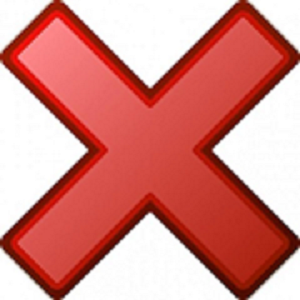
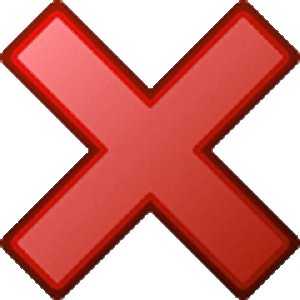
Залил картинки, добавилпару мелочей

diff --git a/answerwindow.cpp b/answerwindow.cpp
@@ -18,25 +18,22 @@ AnswerWindow::~AnswerWindow()
 
 }
 
-void AnswerWindow::preShow(int rightIndex, int checkId)
+void AnswerWindow::preShow(int rightIndex, int checkId, City* city)
 {
     if(rightIndex == checkId){
-        QImage image(":/galochka.png");
-        QGraphicsScene* scene = new QGraphicsScene();
-        QGraphicsPixmapItem* item = new QGraphicsPixmapItem(QPixmap::fromImage(image));
-        scene->addItem(item);
-        ui->graphicsView->setScene(scene);
-        //ui->imageLabel->setPixmap(":/galochka.png");
+        QPixmap pix;
+        pix.load(":/galochka.png");
+        ui->image->resize(pix.size());
+        ui->image->setPixmap(pix);
         ui->label->setText("Ты ответил на вопрос правильно");
-
+        city->rightAnswers++;
     }
     else {
+        QPixmap pix;
+        pix.load(":/krest.PNG");
         QImage image(":/krest.PNG");
-        QGraphicsScene* scene = new QGraphicsScene();
-        QGraphicsPixmapItem* item = new QGraphicsPixmapItem(QPixmap::fromImage(image));
-        scene->addItem(item);
-        ui->graphicsView->setScene(scene);
-        //ui->imageLabel->setPixmap(":/krest.jpg");
+        ui->image->resize(pix.size());
+        ui->image->setPixmap(pix);
         ui->label->setText("Ты ответил на вопрос неправильно");
     }
     show();

diff --git a/city.cpp b/city.cpp
@@ -64,7 +64,7 @@ void City::showAnswer()
     if(ui->var4->isChecked()){
         checkId = 3;
     }
-    aw->preShow(rIndex, checkId);
+    aw->preShow(rIndex, checkId, this);
     hide();
 }
 
@@ -79,7 +79,7 @@ void City::nextQuestion()
         questions[questionNumber].answered = 1;
     }
     else{
-        eq->show();
+        eq->preShow(this);
         hide();
     }
 }
@@ -125,7 +125,7 @@ void City::randQuestion()
         }
     } else{
         complete = true;
-        eq->show();
+        eq->preShow(this);
         hide();
     }
 }

diff --git a/city.h b/city.h
@@ -29,6 +29,8 @@ public:
     bool checkPoint(QPoint p);
     bool complete = false;
     EndQuestions* eq;
+    int rightAnswers = 0;
+    QVector<Question> questions;
 
 public slots:
     void showAnswer();
@@ -44,7 +46,6 @@ private:
     int questionNumber = 0;
     Ui::Dialog *ui;
     QRect rect;
-    QVector<Question> questions;
     AnswerWindow* aw;
 };
 

diff --git a/endquestions.cpp b/endquestions.cpp
@@ -14,3 +14,13 @@ EndQuestions::~EndQuestions()
 {
 
 }
+
+void EndQuestions::preShow(City* city)
+{
+    QString result = "Вы ответили правильно на ";
+    result += QString::number(city->rightAnswers);
+    result += " из ";
+    result += QString::number(city->questions.size());
+    ui->result->setText(result);
+    show();
+}

diff --git a/answerwindow.h b/answerwindow.h
@@ -20,7 +20,7 @@ class AnswerWindow : public QWidget
 public:
     AnswerWindow(City *city, MainWindow* mw);
     ~AnswerWindow();
-    void preShow(int rightIndex, int checkId);
+    void preShow(int rightIndex, int checkId, City *city);
 };
 
 #endif // ANSWERWINDOW_H

diff --git a/mainwindow.cpp b/mainwindow.cpp
@@ -27,7 +27,7 @@ MainWindow::MainWindow(QWidget *parent) :
 
 
 
-    QFile file("questions.txt");
+    QFile file("russia.questions");
     if (file.open(QIODevice::ReadOnly))
     {
        QTextStream in(&file);

diff --git a/endquestions.h b/endquestions.h
@@ -20,6 +20,7 @@ class EndQuestions : public QWidget
 public:
     EndQuestions(City* city, MainWindow* mw);
     ~EndQuestions();
+    void preShow(City *city);
 };
 
 #endif // ENDQUESTIONS_H
